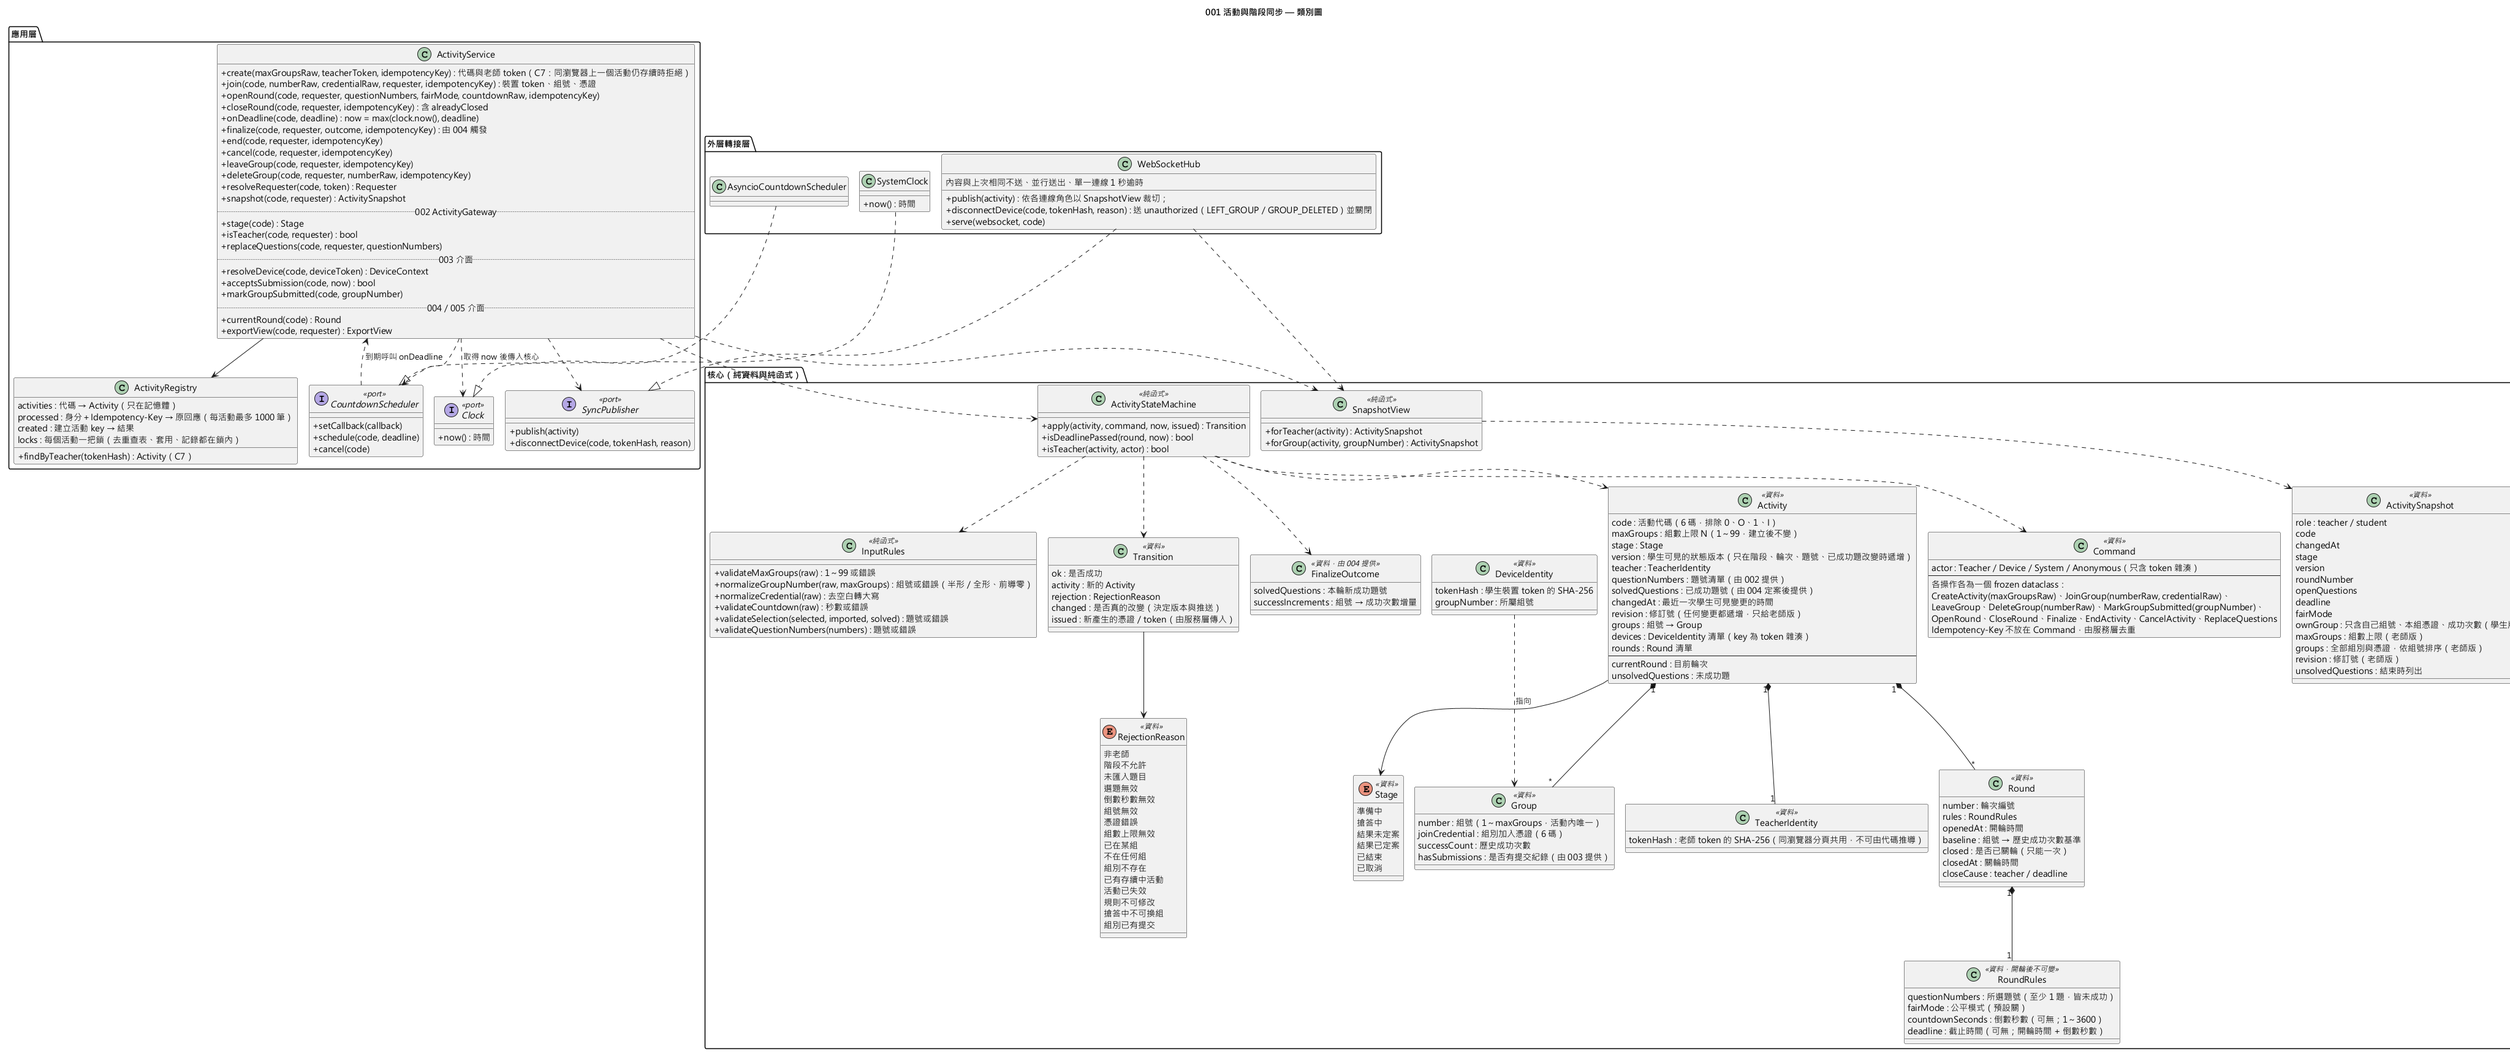
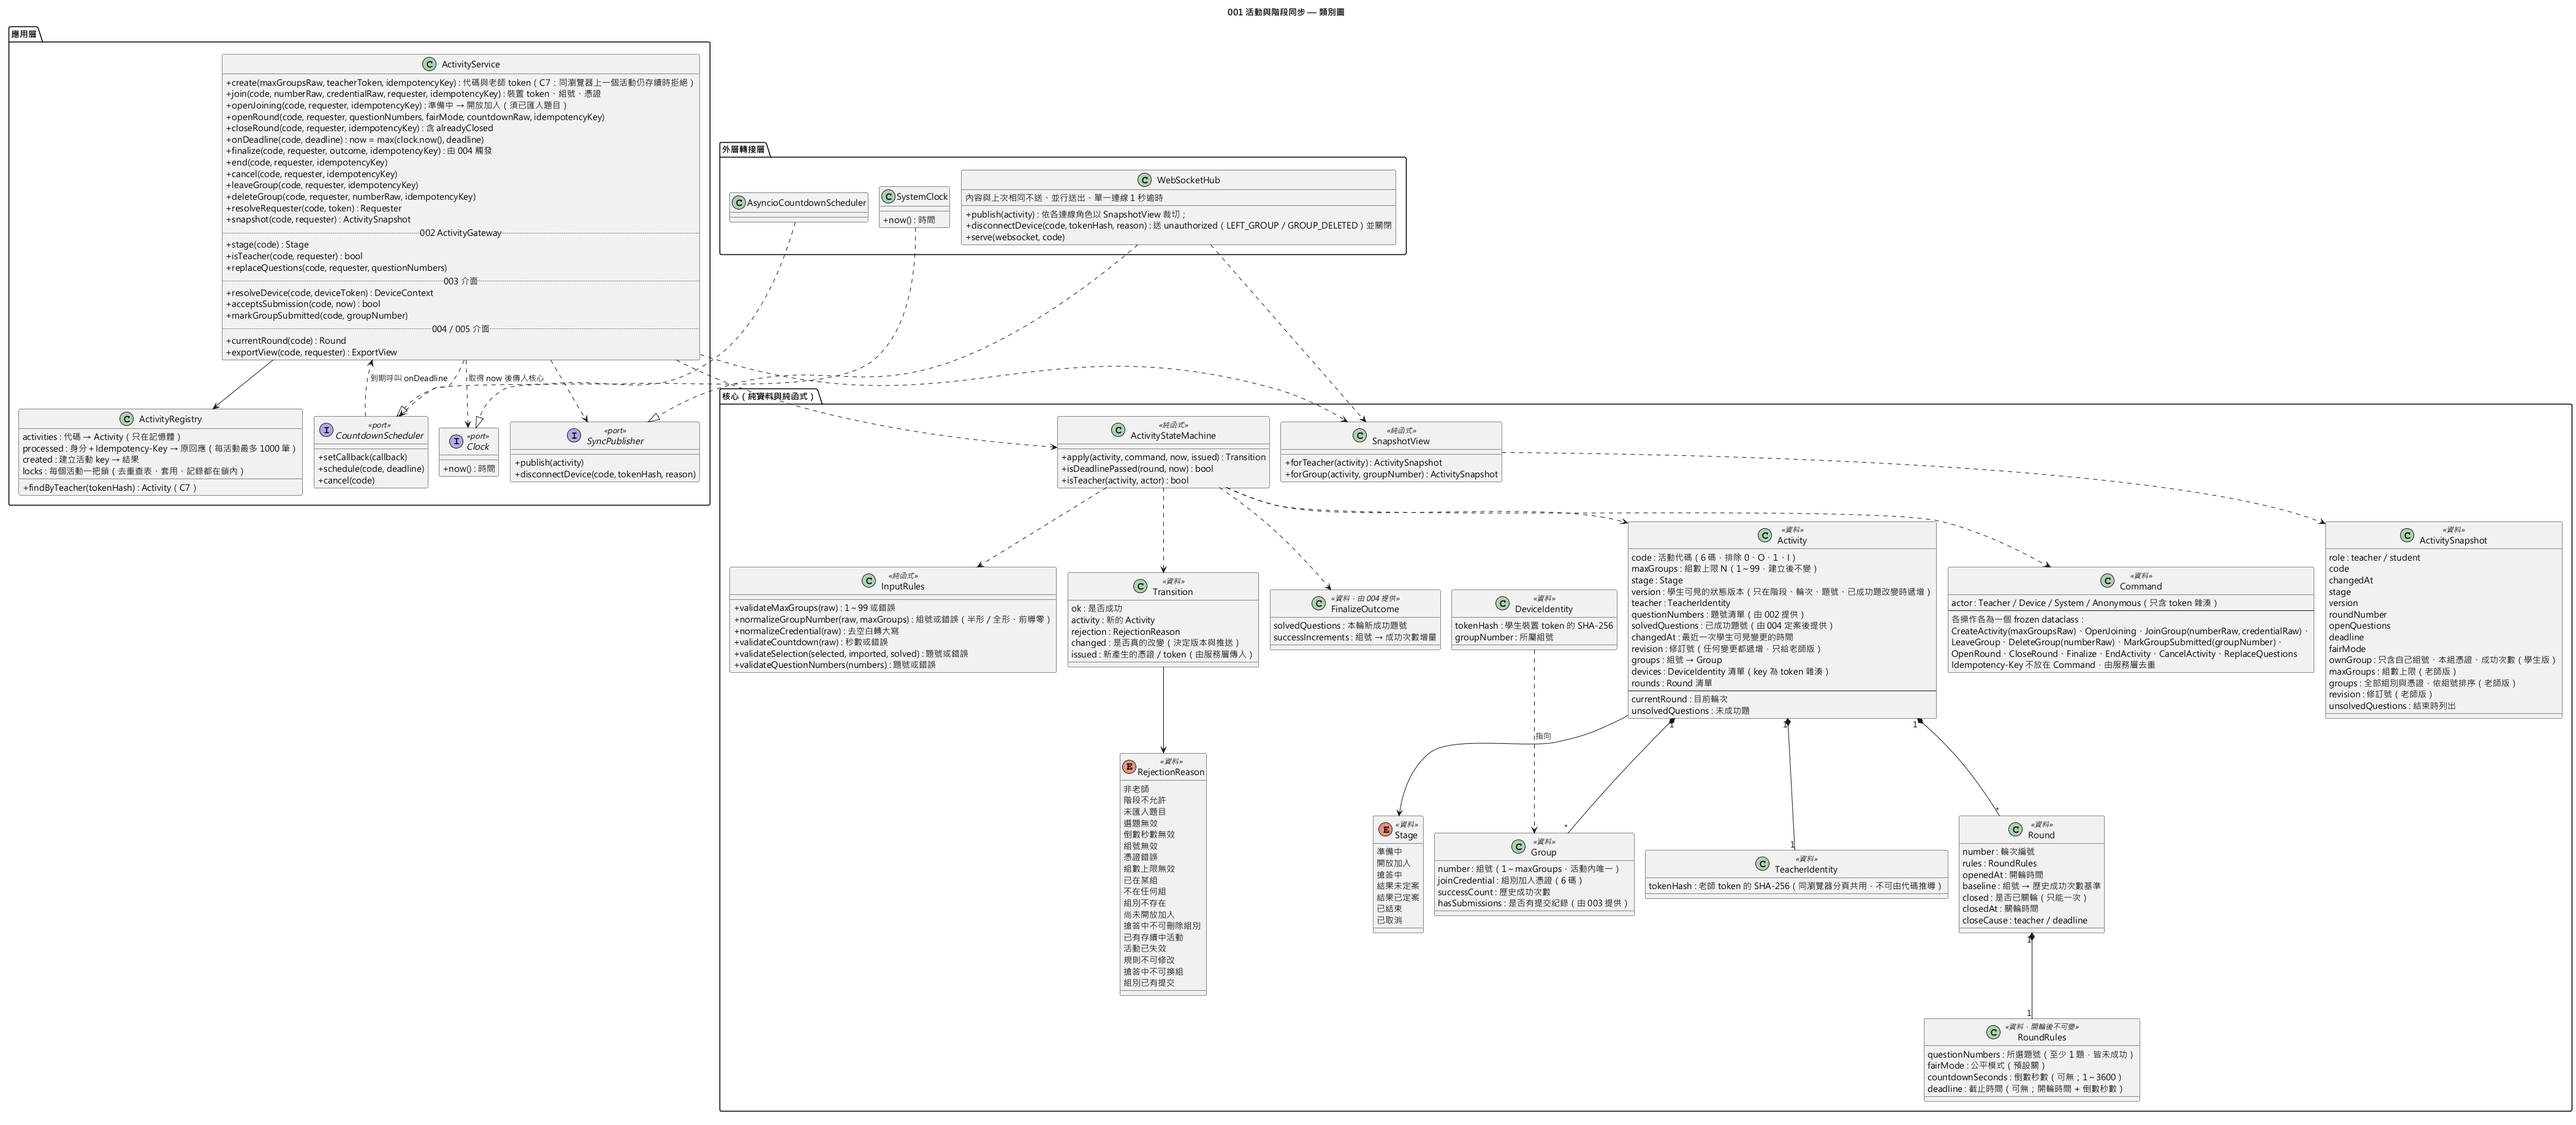
fix: 001 結束／取消後畫面一致，並重新產生圖表 PNG（T107、T109）
- 老師頁與學生頁在已結束、已取消後一律維持在結果畫面；老師按「建立新活動」、
  學生按「加入其他活動」才回到建立／加入畫面（後端重啟的 gone 畫面共用同一個
  回到建立畫面的函式）。前端沒有自動化測試，只做 node --check 語法檢查。
- 用 plantuml.jar 重新產生三張 PNG。PlantUML 預設圖片上限 4096 像素會截掉大圖，
  加 -DPLANTUML_LIMIT_SIZE=16384 後類別圖 4203×1836、時序圖 1522×4711。
- quickstart 第 24、27 步與 spec Edge Case 同步。

驗證（Windows 11、Python 3.14.7）：ruff check 通過；ruff format --check 115 files
already formatted；mypy 26 source files 無錯誤；pytest 389 passed、1 deselected；
pytest -m perf 1 passed。

diff --git a/src/lecture_quiz/adapters/static/js/teacher.js b/src/lecture_quiz/adapters/static/js/teacher.js
@@ -77,10 +77,7 @@ function start(code, token) {
   if (state.sync) state.sync.close();
   state.sync = connectSync(code, token, {
     onSnapshot: render,
-    onGone: () => {
-      $("activity-info").hidden = true;
-      $("activity-create").hidden = false;
-    },
+    onGone: showCreateForm,
     onUnauthorized: () => showError($("activity-error"), { message: "需要該活動的老師身分。" }),
   });
 }
@@ -201,6 +198,21 @@ function renderClosing(snapshot) {
   $("ended-summary").hidden = snapshot.stage !== "ENDED";
   $("ended-unsolved").textContent = formatQuestions(snapshot.unsolvedQuestions);
   $("cancelled-summary").hidden = snapshot.stage !== "CANCELLED";
+  // 已結束或已取消：維持在結果畫面，由老師按「建立新活動」才回到建立畫面
+  $("new-activity").hidden = !["ENDED", "CANCELLED"].includes(snapshot.stage);
+}
+
+/** 回到建立活動畫面（只在已結束或已取消後由老師按鈕觸發；與後端重啟後的 gone 畫面一致）。 */
+function showCreateForm() {
+  if (state.sync) state.sync.close();
+  state.sync = null;
+  state.snapshot = null;
+  state.code = null;
+  state.token = null;
+  showError($("activity-error"), null);
+  $("activity-info").hidden = true;
+  $("activity-create").hidden = false;
+  history.replaceState(null, "", location.pathname);
 }
 
 onTeacherSnapshot(renderClosing);
@@ -269,6 +281,7 @@ function init() {
   $("end-activity").addEventListener("click", () => teacherAction("POST", "/end", {}));
   $("open-joining").addEventListener("click", () => teacherAction("POST", "/open-joining", {}));
   $("cancel-activity").addEventListener("click", () => teacherAction("POST", "/cancel", {}));
+  $("new-activity").addEventListener("click", showCreateForm);
   detectDevSeed();
   const code = normalizeCode(new URLSearchParams(location.search).get("code"));
   if (!code) return;

diff --git a/src/lecture_quiz/adapters/static/js/student.js b/src/lecture_quiz/adapters/static/js/student.js
@@ -110,6 +110,20 @@ function renderLeave(snapshot) {
   $("leave-group").hidden = terminal;
   $("leave-group").disabled = roundOpen;
   $("leave-hint").hidden = !roundOpen || terminal;
+  // 已結束或已取消：維持在結果畫面，由學生按「加入其他活動」才回到加入畫面
+  $("new-join").hidden = !terminal;
+}
+
+/** 離開已結束或已取消的活動，回到加入畫面。 */
+function joinAnother() {
+  const { code } = currentIdentity();
+  if (state.sync) state.sync.close();
+  state.sync = null;
+  if (code) clearIdentity(code);
+  state.code = null;
+  showError($("student-error"), null);
+  showJoinForm();
+  history.replaceState(null, "", location.pathname);
 }
 
 onStudentSnapshot(renderLeave);
@@ -133,6 +147,7 @@ async function leaveGroup() {
 function init() {
   $("student-join").addEventListener("submit", joinGroup);
   $("leave-group").addEventListener("click", leaveGroup);
+  $("new-join").addEventListener("click", joinAnother);
   const code = normalizeCode(new URLSearchParams(location.search).get("code"));
   $("join-code").value = code;
   if (!code) return;

diff --git a/src/lecture_quiz/adapters/static/teacher.html b/src/lecture_quiz/adapters/static/teacher.html
@@ -50,6 +50,7 @@
           <button type="button" id="finalize-round" hidden>確認定案</button>
           <button type="button" id="end-activity" hidden>結束活動</button>
           <button type="button" id="cancel-activity" hidden>取消活動</button>
+          <button type="button" id="new-activity" hidden>建立新活動</button>
         </div>
         <p id="ended-summary" hidden>未成功題：<span id="ended-unsolved"></span></p>
         <p id="cancelled-summary" class="muted" hidden>活動已取消，不提供寫回與 CSV 下載。</p>

diff --git a/src/lecture_quiz/adapters/static/student.html b/src/lecture_quiz/adapters/static/student.html
@@ -44,6 +44,7 @@
           <span id="student-countdown" class="countdown"></span></p>
         <p id="student-ended" hidden>活動已結束。未成功題：<span id="student-unsolved"></span></p>
         <p id="student-cancelled" hidden>活動已取消。</p>
+        <p><button type="button" id="new-join" hidden>加入其他活動</button></p>
       </div>
     </section>
     <!-- ── 子功能區塊結束 ── -->

diff --git a/specs/001-activity-session/tasks.md b/specs/001-activity-session/tasks.md
@@ -543,8 +543,10 @@ description: "001-activity-session 任務清單"
 - [x] T104 前端：老師頁新增「開放加入」按鈕（準備中顯示，沒有題目時停用）、開輪面板改在開放加入與結果已定案顯示、取消按鈕在準備中與開放加入顯示、搶答中不顯示「刪除」組別按鈕；學生頁與老師頁加入「開放加入」階段名稱。前端沒有自動化測試，請在 T084 人工驗證。
 - [x] T105 既有測試改為先開放加入再加入／開輪（`tests/conftest.py` 新增 `open_joining`、`create_joinable`；`tests/unit/core/helpers.py` 新增 `joining_activity`）；刪除組別的「搶答中並行」測試改為驗證「搶答中一律拒絕刪除、不會產生孤兒答案」；`tests/SCENARIO_MAP.md` 重新掃描（57 個 Scenario，未對應：無）。
 - [x] T106 文件同步：spec（FR-008、FR-011、FR-013、FR-025、FR-034、FR-035、新增 FR-038、US8、US2-AS10、US7-AS7、US7-AS8、Clarifications、Traceability）、data-model、contracts（HTTP #12、WebSocket 階段列舉、service-interfaces）、research R11、plan、quickstart（改為 27 步）、類別圖與時序圖的 `.puml`、`docs/alignment.md`（三列 2026-11-23 決議）。
-- [ ] T107 重新產生三張 PNG：`.puml` 在 T106 又改過，現有 PNG 落後；需要在有 `plantuml.jar` 的本機 Windows 執行 `java -jar plantuml.jar -charset UTF-8 "./diagrams/001-*.puml"` 並目視確認（原則 II）。T095 的證據對應的是更早的版本。
+- [x] T107 重新產生三張 PNG：`.puml` 在 T106 又改過，需要重新產生（原則 II）。
+  - 2026-11-23：用本機 `plantuml.jar` 執行 `java -DPLANTUML_LIMIT_SIZE=16384 -jar plantuml.jar -charset UTF-8 "./diagrams/001-*.puml"`，並目視確認類別圖的 Stage 含「開放加入」、RejectionReason 含「尚未開放加入」「搶答中不可刪除組別」，時序圖含「開放加入」段落。**注意**：PlantUML 預設圖片尺寸上限 4096 像素，舊的時序圖（高 3982）與這次的類別圖（寬 4203）、時序圖（高 4711）超過上限時會被截掉，所以要加 `-DPLANTUML_LIMIT_SIZE=16384`；產生後三張尺寸為類別圖 4203×1836、組件圖 2405×818、時序圖 1522×4711。
 - [x] T108 Ctrl+C 關機保護（緩解，未在回報者的環境驗證）：`python -m lecture_quiz` 加上 `timeout_graceful_shutdown=3`，最多等 3 秒就取消剩下的連線並退出。EricC430 回報按 Ctrl+C 後後端沒有結束；本機（Windows、Python 3.14、uvicorn 0.54）以 8 條自動重連的 WebSocket 模擬，修改前後都在 0.2 秒內正常結束，所以**無法重現**，這項只是保險，需要 T084 第 26 步在回報者的環境再確認。
+- [x] T109 結束或取消之後的畫面一致（EricC430 在 T084 回報）：老師頁與學生頁一律維持在結果畫面，老師按「建立新活動」、學生按「加入其他活動」才回到建立／加入畫面（`teacher.js` 的 `showCreateForm`、`student.js` 的 `joinAnother`；後端重啟的 gone 畫面共用 `showCreateForm`）。前端沒有自動化測試，只做了 `node --check` 語法檢查；請在 T084 重跑 quickstart 第 24、27 步確認。
 - 2026-11-23 驗證（Windows 11、Python 3.14.7；與 T083 的 3.11.5 不同）：`ruff check .` All checks passed；`ruff format --check .` 115 files already formatted；`mypy` Success: no issues found in 26 source files；`pytest` 389 passed、1 deselected；`pytest -m perf` 1 passed。
 
 ---

diff --git a/specs/001-activity-session/quickstart.md b/specs/001-activity-session/quickstart.md
@@ -75,10 +75,10 @@ python -m lecture_quiz              # 只監聽 127.0.0.1:8000
 | 21 | 分頁 A1 按「離開本組」（第 3 組現在沒有任何裝置），再輸入組號 3 且不填憑證加入 | 加入成功，A1 回到第 3 組，成功次數與憑證不變 | US2-AS10 |
 | 22 | 分頁 C 加入組號 5（打錯，這時第 5 組不存在所以免憑證建立新組），分頁 T 在組別清單刪除第 5 組 | C 回到加入畫面，看到「此組已被老師刪除」；老師頁不再列出第 5 組；C 再加入組號 5 會拿到新憑證 | US7-AS5、AS8 |
 | 23 | 關閉分頁 B 的網路（DevTools → Network → Offline），等 5 秒後恢復 | 斷線期間顯示「同步中斷」；恢復後自動顯示最新狀態 | US6-AS2、AS3 |
-| 24 | 分頁 T 按「結束活動」 | 顯示「已結束」與未成功題清單（004 合併前，定案不會標記成功題，所以是 1～4） | US5-AS1 |
+| 24 | 分頁 T 按「結束活動」 | 顯示「已結束」與未成功題清單（004 合併前，定案不會標記成功題，所以是 1～4），**維持在結果畫面**，並出現「建立新活動」按鈕；學生頁維持顯示「已結束」，並出現「加入其他活動」按鈕 | US5-AS1 |
 | 25 | 分頁 A1 重新整理 | 仍是第 3 組，顯示「已結束」 | US2-AS8 |
 | 26 | 在終端機按 Ctrl+C 停止後端（3 秒內應該回到提示字元），再重新啟動；重新整理所有分頁 | 後端在 3 秒內結束；重新啟動後所有分頁顯示「活動已失效，請重新建立或加入活動」，沒有舊資料 | US6-AS4、SC-007 |
-| 27 | 分頁 T 新建活動（上一個活動已失效），在準備中按「取消活動」；再新建活動，放入假題目、按「開放加入」後按「取消活動」 | 兩次都取消成功；取消後學生頁顯示「活動已取消」，沒有匯出按鈕 | US1-AS8、US5-AS4、US8-AS7 |
+| 27 | 分頁 T 新建活動（上一個活動已失效），在準備中按「取消活動」；再新建活動，放入假題目、按「開放加入」後按「取消活動」 | 兩次都取消成功；取消後老師頁與學生頁都**維持在結果畫面**（顯示「活動已取消」，沒有匯出按鈕），並分別出現「建立新活動」「加入其他活動」按鈕；按下後才回到建立／加入畫面 | US1-AS8、US5-AS4、US8-AS7 |
 
 **通過條件**：
 

diff --git a/specs/001-activity-session/spec.md b/specs/001-activity-session/spec.md
@@ -321,6 +321,7 @@
 - **所有題目都已成功**：定案後沒有未成功題時，開下一輪會因「至少選一題未成功題」而被拒絕；老師只能結束活動。
 - **中途加入的組別遇到下一輪**：開下一輪時，該組的歷史成功次數基準是開輪當下的值（通常為零）。
 - **已結束活動的匯出**：結束後仍可匯出；匯出時是否還要再次 Google 授權，由 005 負責（Q-31）。
+- **結束或取消之後的畫面**：老師頁與學生頁一律**維持在結果畫面**（已結束顯示未成功題、已取消顯示「活動已取消」），不會自動跳回建立或加入畫面；老師按「建立新活動」、學生按「加入其他活動」才回到建立／加入畫面（與後端重啟後顯示「活動已失效」再回到建立／加入畫面一致）。
 - **舊頁面操作已失效活動**：後端重啟後，舊頁面送出任何操作 → 系統拒絕並提示活動已失效，不會把請求套用到同代碼的新活動上（新活動的身分憑證與舊的不同）。
 - **輸入驗證失敗時（憲章原則 V）**：
   - 適用的輸入：活動代碼、組數上限、組號、組別加入憑證、老師身分、所選題目、公平模式設定、倒數秒數、要刪除的組別。

diff --git a/specs/001-activity-session/checklists/requirements.md b/specs/001-activity-session/checklists/requirements.md
@@ -34,7 +34,7 @@
 - [x] 原則 I：6 條 OpenSpec Requirement、12 個 Scenario 全部出現在 Traceability 表；偏離與新增行為都已記入 `docs/alignment.md`（2026-11-23 A1～C10），並在表中引用
 - [x] 原則 I：上述偏離與新增行為已由 OpenSpec 組於 2026-11-23 全部確認（alignment.md A1～C10）
 - [x] 原則 II：`diagrams/001-activity-session-{component,class,sequence}.puml` 已建立，並已納入組別更正流程
-- [ ] 原則 II：PNG 已轉出 — 2026-11-23 的「開放加入」決議又修改了 `.puml`，PNG 落後，待 tasks T107 在有 `plantuml.jar` 的本機重新產生（T095 對應更早的版本）
+- [x] 原則 II：PNG 已轉出（tasks T107：`java -DPLANTUML_LIMIT_SIZE=16384 -jar plantuml.jar -charset UTF-8 "./diagrams/001-*.puml"`，預設的 4096 像素上限會截掉大圖）
 - [x] 原則 III：開輪條件依 002 的成功匯入結果判定；匯入被拒時保留既有題目（Assumptions）
 - [x] 原則 IV：身分、階段、關輪一次、重送去重皆由後端判定（FR-012、FR-019、FR-033）
 - [x] 原則 V：權限（FR-004、FR-005）、資料可見性（FR-007、FR-030）、輸入驗證與錯誤訊息（FR-031、Edge Cases）
